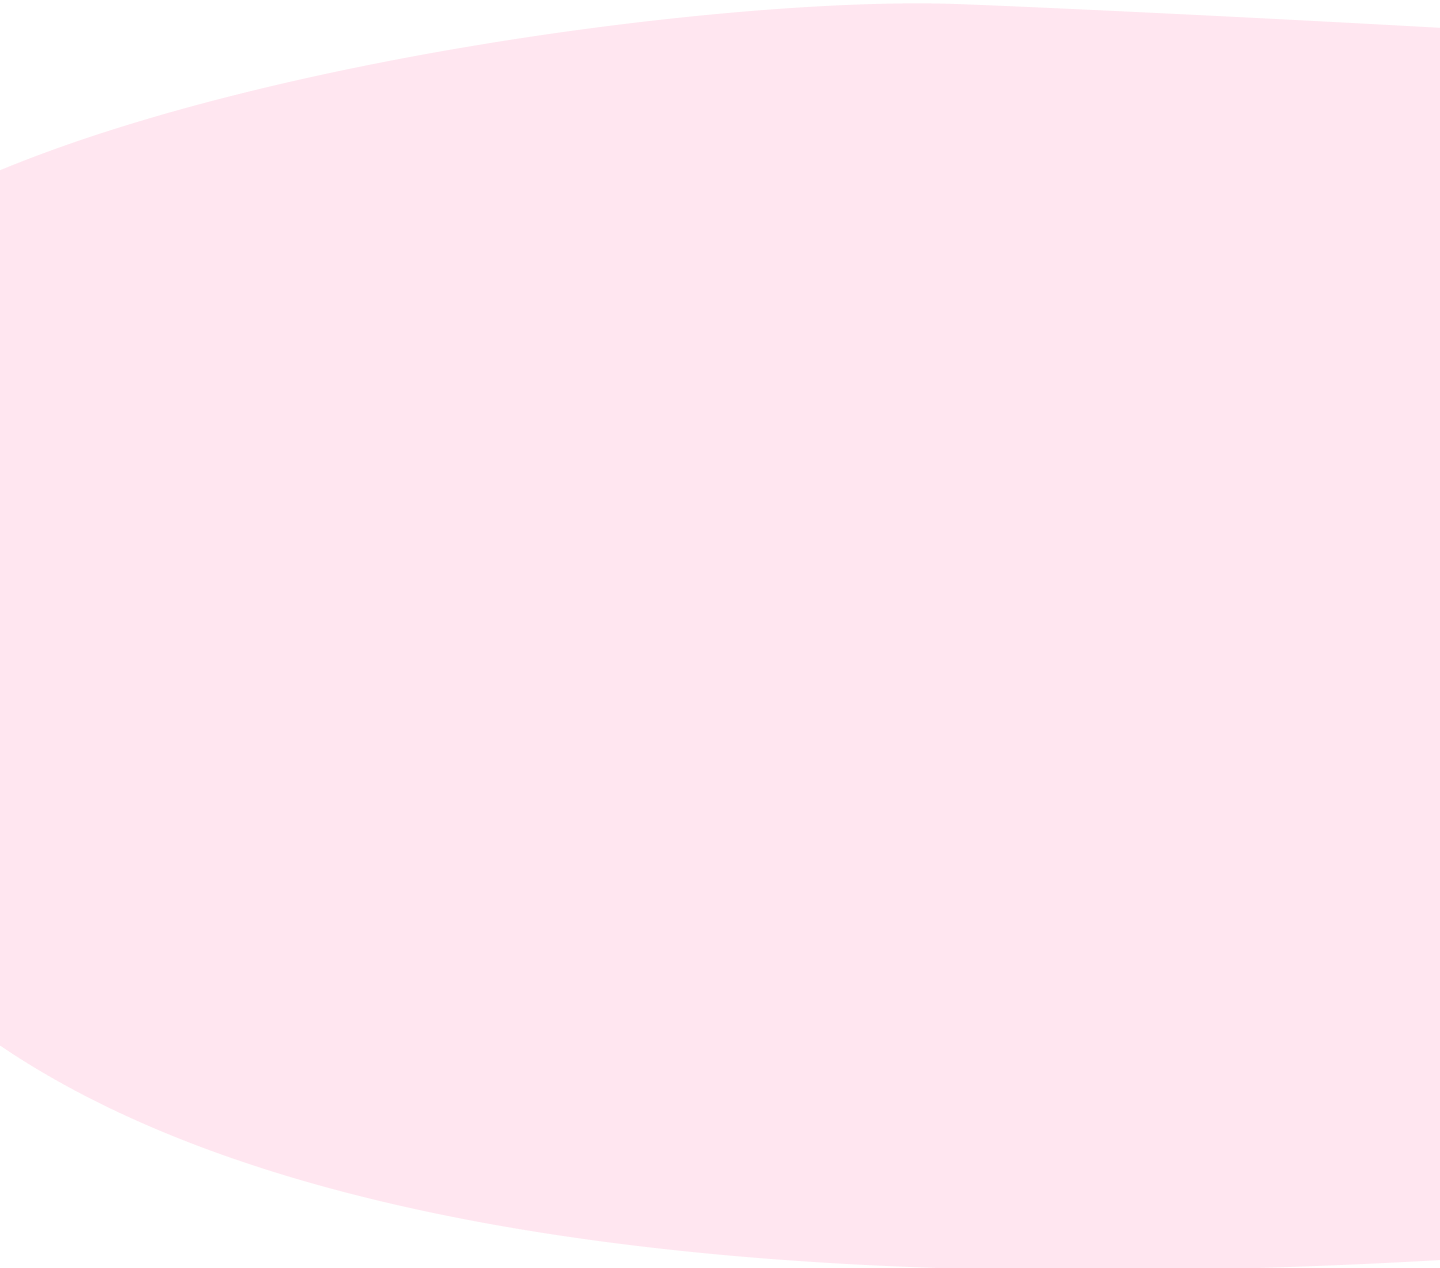
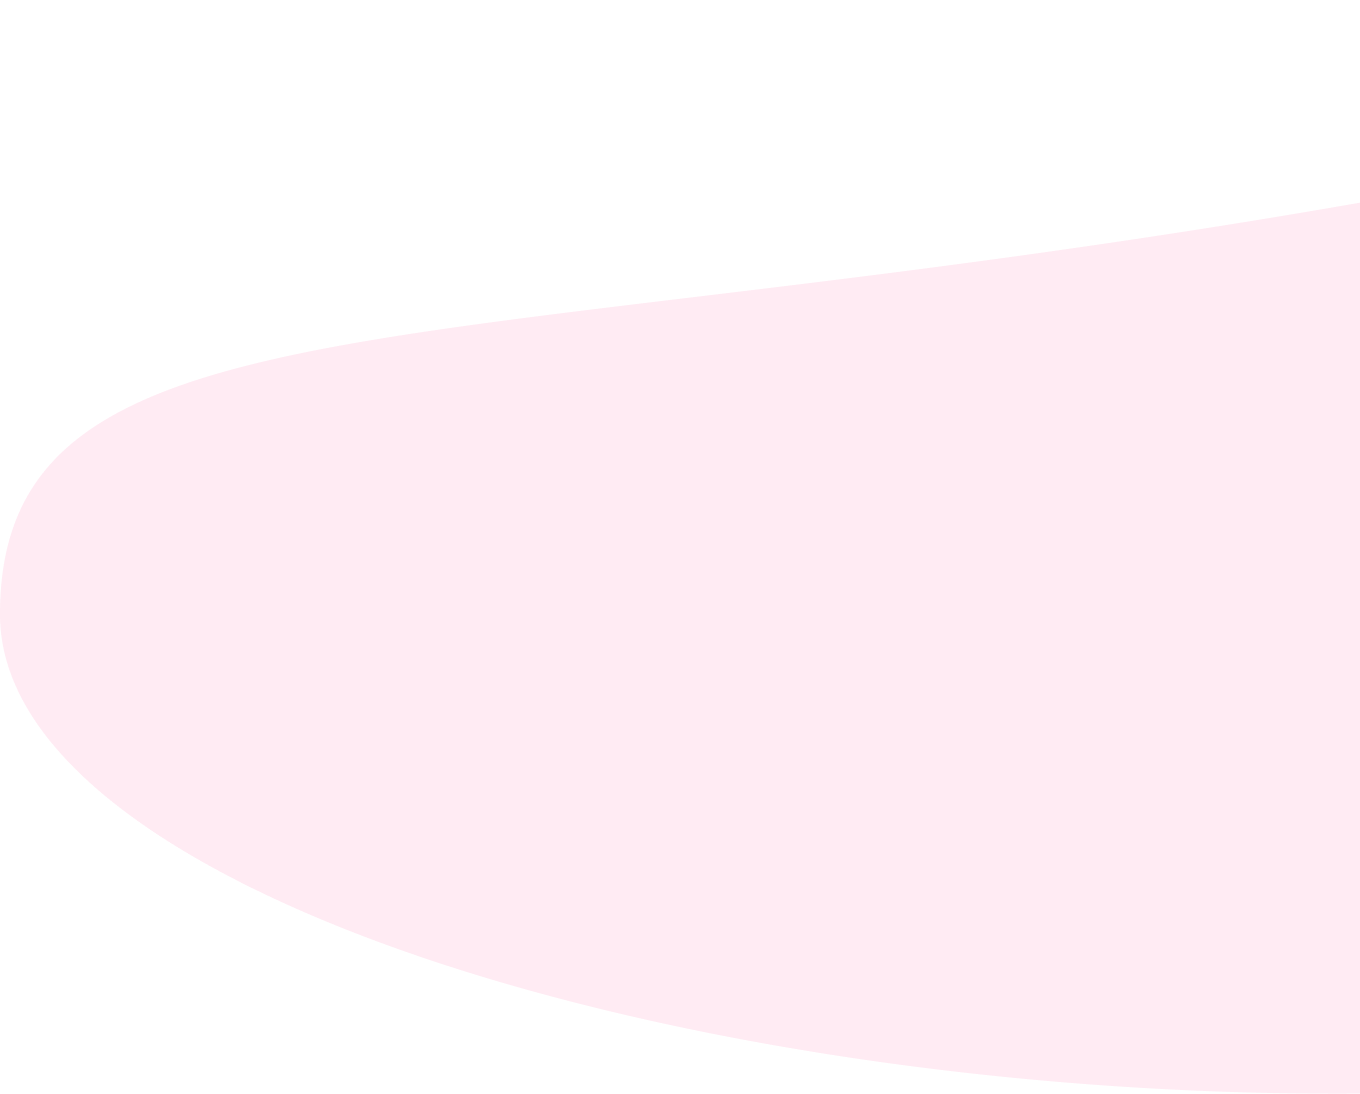
OnboardingScreen background image position fixed

diff --git a/lib/main.dart b/lib/main.dart
@@ -1,18 +1,12 @@
-// ignore_for_file: unused_import
-
 import 'package:flutter/material.dart';
 import 'package:flutter_locales/flutter_locales.dart';
-import 'package:lady_taxi/ui/screens/create_profile_screen.dart';
-import 'package:lady_taxi/ui/screens/home_screen/home_screen.dart';
 
 import './utils/theme.dart';
 import 'ui/screens/onboarding_screen.dart';
-// import 'ui/screens/registry_screen.dart';
 
 void main() async {
   WidgetsFlutterBinding.ensureInitialized();
   await Locales.init(['en', 'ru', 'uz']);
-
   runApp(const MyApp());
 }
 
@@ -28,9 +22,7 @@ class MyApp extends StatelessWidget {
         locale: locale,
         debugShowCheckedModeBanner: false,
         theme: LadyTaxiTheme().themeData,
-        // home: const OnboardingScreen(),
-        home:  const ProfileScreen(''),
-        // home:  const HomeScreen(),
+        home: const OnboardingScreen(),
       ),
     );
   }

diff --git a/lib/ui/screens/onboarding_screen.dart b/lib/ui/screens/onboarding_screen.dart
@@ -15,15 +15,12 @@ class OnboardingScreen extends StatefulWidget {
 
 class _OnboardingScreenState extends State<OnboardingScreen> {
   final _pageController = PageController();
-
   bool isLast = false;
 
   _btnHandle() {
-    if (isLast) {
-      Navigator.of(context).pushReplacement(MaterialPageRoute(builder: (ctx) => const RegistryScreen()));
-    } else {
-      _pageController.nextPage(duration: LadyTaxiDurations.pageView, curve: Curves.fastOutSlowIn);
-    }
+    isLast
+        ? Navigator.of(context).pushReplacement(MaterialPageRoute(builder: (ctx) => const RegistryScreen()))
+        : _pageController.nextPage(duration: LadyTaxiDurations.pageView, curve: Curves.fastOutSlowIn);
   }
 
   @override

diff --git a/lib/ui/widgets/onboarding_page_widget.dart b/lib/ui/widgets/onboarding_page_widget.dart
@@ -15,10 +15,7 @@ class OnboardingPage extends StatelessWidget {
           height: 380,
           padding: const EdgeInsets.all(40),
           decoration: BoxDecoration(
-            image: DecorationImage(
-              image: AssetImage('assets/images/onboarding/vector$index.png'),
-              fit: BoxFit.cover,
-            ),
+            image: DecorationImage(image: AssetImage('assets/images/onboarding/vector$index.png')),
           ),
           child: Image.asset('assets/images/onboarding/onboardingimage$index.png'),
         ),
